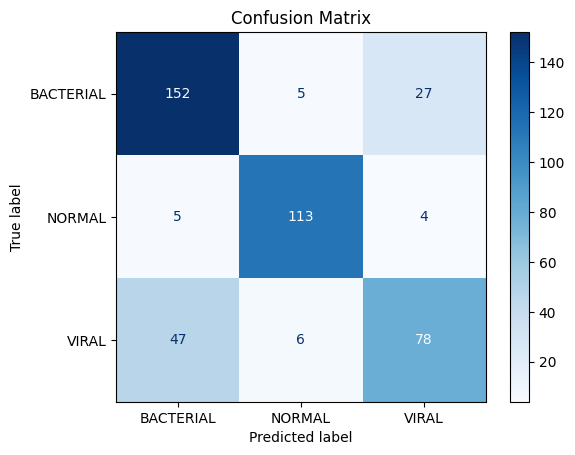
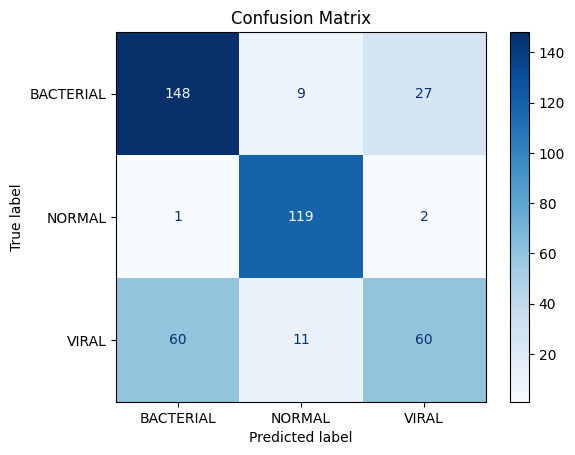
Initial plan + wsl setup

diff --git a/pneumonia_classification.py b/pneumonia_classification.py
@@ -1,7 +1,6 @@
 from __future__ import print_function
 
 import os
-os.makedirs("plots", exist_ok=True)
 os.environ['TF_CPP_MIN_LOG_LEVEL'] = '3'
 
 import keras
@@ -19,7 +18,6 @@ from sklearn.metrics import ConfusionMatrixDisplay
 import warnings
 warnings.filterwarnings("ignore")
 
-import tensorflow as tf
 tf.get_logger().setLevel('ERROR')
 
 gpus = tf.config.list_physical_devices('GPU')
@@ -40,7 +38,7 @@ fit = True #make fit false if you do not want to train the network again
 train_dir = 'chest_xray/chest_xray/train/'
 test_dir = 'chest_xray/chest_xray/test/'
     
-#create training,validation and test datatsets
+#create training,validation and test datatsets 
 train_ds,val_ds = tf.keras.preprocessing.image_dataset_from_directory(
     train_dir,
     seed=123,
@@ -134,6 +132,13 @@ disp = ConfusionMatrixDisplay(confusion_matrix=cm, display_labels=class_names)
 disp.plot(cmap="Blues", values_format="d")
 plt.title("Confusion Matrix")
 plt.savefig("plots/confusion_matrix.png", bbox_inches="tight")
+plt.close()
+
+disp = ConfusionMatrixDisplay(confusion_matrix=cm_norm, display_labels=class_names)
+disp.plot(cmap="Blues", values_format=".2f")
+plt.title("Normalized Confusion Matrix")
+plt.savefig("plots/confusion_matrix_normalized.png", bbox_inches="tight")
+plt.close()
 
 if fit:
     plt.figure()
@@ -144,5 +149,4 @@ if fit:
     plt.xlabel('epoch')
     plt.legend(['train', 'val'], loc='upper left')
     plt.savefig('plots/training_accuracy.png')
-
-plt.savefig('plots/accuracy.png')
+    plt.close()